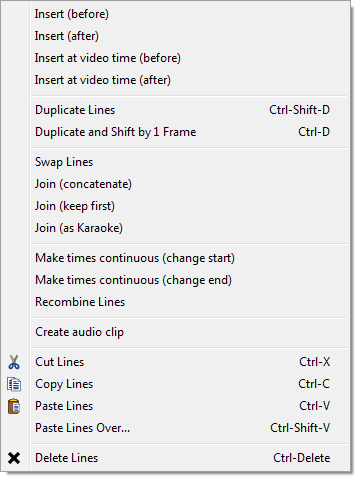
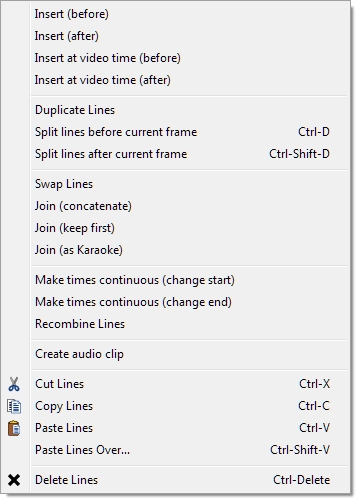
Update subtitles grid context menu docs

diff --git a/source/docs/3.1/Editing_Subtitles.html.md b/source/docs/3.1/Editing_Subtitles.html.md
@@ -276,10 +276,18 @@ video frame. Not enabled unless you have video loaded.
 **Duplicate**
 : Duplicates the selected line(s).
 
-**Duplicate and shift by 1 frame**
-: Duplicates the selected line(s) and shifts the start and end times one
-frame forward. Useful for frame-by-frame typesetting. Only enabled if you
-have video or timecodes loaded.
+**Split lines before current frame**
+: Duplicate the selected line(s), set the end time of the original line
+to the frame before the current video frame, and set the start time of
+the copy to the current video frame. Useful for frame-by-frame
+typesetting and for splitting a line at a scene change to let it move
+down if it collided with a no-longer-visible line. Only enabled if you
+have video loaded.
+
+**Split lines after current frame**
+: As above, but it splits off the portion of the line after the current
+frame rather than the potion before the current frame, for when doing
+frame-by-frame typesetting from the last to the first frame of a line.
 
 **Split (by karaoke)**
 : Splits the line into one new line per syllable, as delimited by karaoke
